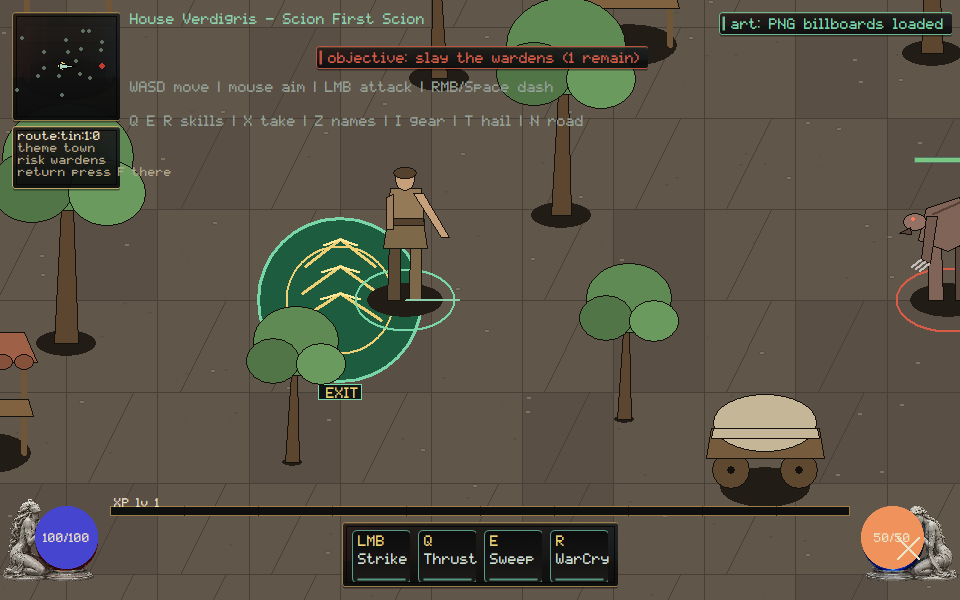
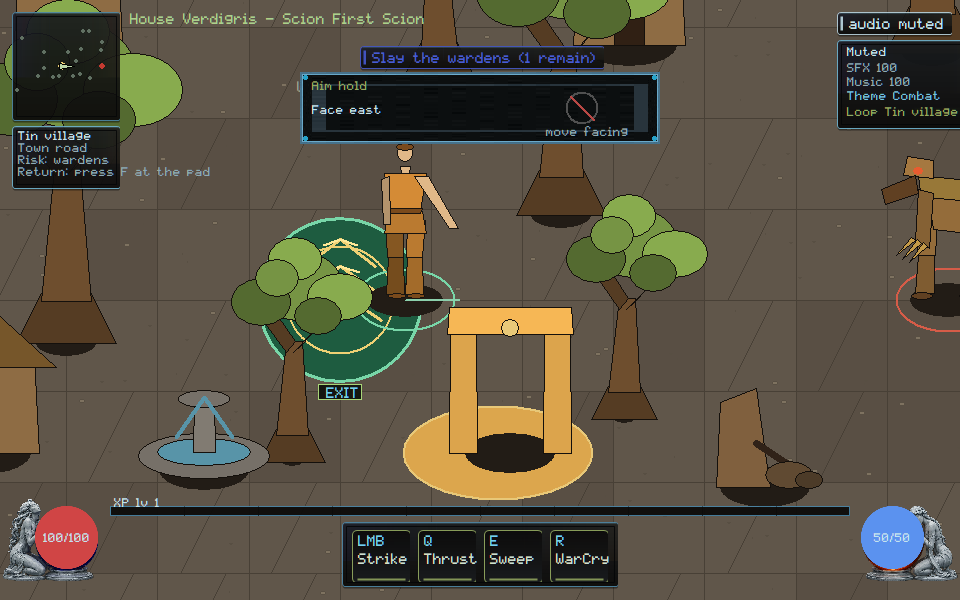
native: name held aim, present-path latency, and open carry so photon and extract-ok cannot certify

diff --git a/native/client/main.cpp b/native/client/main.cpp
@@ -482,6 +482,9 @@ struct ClientState {
   bool combat_beats_review_strip = false;
   bool pane_stack_review_strip = false;
   bool eight_way_review_strip = false;
+  bool aim_hold_review_strip = false;
+  bool input_latency_review_strip = false;
+  bool death_disconnect_review_strip = false;
   bool debug_overlay = false;
   // Last full paint_scene duration in milliseconds (F3 overlay); the honest
   // per-frame budget readout that catches presentation-cost regressions.
@@ -6626,6 +6629,123 @@ void paint_eight_way_review_strip(ClientState& state, HDC dc, const RECT& bounds
   SelectObject(dc, old_font);
 }
 
+void paint_aim_hold_review_strip(ClientState& state, HDC dc, const RECT& bounds,
+                                 render::List& rl) {
+  if (!state.aim_hold_review_strip) return;
+  const int s = hud_scale(static_cast<int>(bounds.bottom));
+  const int pane_w = 360 * s;
+  const int pane_h = 72 * s;
+  const int left = (static_cast<int>(bounds.right) - pane_w) / 2;
+  const int top = 72 * s;
+  RECT pane{left, top, left + pane_w, top + pane_h};
+  if (!draw_framekit_nine(state.billboards, dc, state.billboards.fk_panel, pane))
+    skin::panel(dc, pane, skin::kVerdigris, 235, 8.0f);
+  rl.push_back({render::Op::Hud, static_cast<double>(left),
+                static_cast<double>(top), 0.0, 1, "aim-strip"});
+  SetBkMode(dc, TRANSPARENT);
+  HGDIOBJ old_font = SelectObject(dc, skin::font_small());
+  SetTextColor(dc, skin::kVerdigris);
+  const char* title = verdigris::client::move::owner_aim_hold_label();
+  TextOutA(dc, left + 12 * s, top + 8 * s, title, static_cast<int>(strlen(title)));
+  SetTextColor(dc, skin::kInk);
+  const char* face = verdigris::client::move::owner_face_east_label();
+  TextOutA(dc, left + 12 * s, top + 32 * s, face, static_cast<int>(strlen(face)));
+  const int rx = left + pane_w - 78 * s;
+  const int ry = top + 36 * s;
+  ring_ellipse(dc, rx, ry, 16 * s, 16 * s, RGB(80, 80, 80), 2);
+  draw_line(dc, rx - 12 * s, ry - 12 * s, rx + 12 * s, ry + 12 * s, RGB(185, 72, 69),
+            2);
+  SetTextColor(dc, skin::kInkDim);
+  const char* rejected = "move facing";
+  TextOutA(dc, rx - 36 * s, top + pane_h - 18 * s, rejected,
+           static_cast<int>(strlen(rejected)));
+  rl.push_back({render::Op::Hud, static_cast<double>(left + 12 * s),
+                static_cast<double>(top + 8 * s), 0.0, 1, "aim:hold"});
+  rl.push_back({render::Op::Hud, static_cast<double>(left + 12 * s),
+                static_cast<double>(top + 32 * s), 0.0, 1, "aim:face-east"});
+  rl.push_back({render::Op::Hud, static_cast<double>(rx), static_cast<double>(ry),
+                0.0, 0, "aim-strip:move-facing-rejected"});
+  SelectObject(dc, old_font);
+}
+
+void paint_input_latency_review_strip(ClientState& state, HDC dc, const RECT& bounds,
+                                      render::List& rl) {
+  if (!state.input_latency_review_strip) return;
+  const int s = hud_scale(static_cast<int>(bounds.bottom));
+  const int pane_w = 360 * s;
+  const int pane_h = 72 * s;
+  const int left = (static_cast<int>(bounds.right) - pane_w) / 2;
+  const int top = 72 * s;
+  RECT pane{left, top, left + pane_w, top + pane_h};
+  if (!draw_framekit_nine(state.billboards, dc, state.billboards.fk_panel, pane))
+    skin::panel(dc, pane, skin::kVerdigris, 235, 8.0f);
+  rl.push_back({render::Op::Hud, static_cast<double>(left),
+                static_cast<double>(top), 0.0, 1, "latency-strip"});
+  SetBkMode(dc, TRANSPARENT);
+  HGDIOBJ old_font = SelectObject(dc, skin::font_small());
+  SetTextColor(dc, skin::kVerdigris);
+  const char* title = verdigris::client::input::owner_present_label();
+  TextOutA(dc, left + 12 * s, top + 8 * s, title, static_cast<int>(strlen(title)));
+  SetTextColor(dc, skin::kInk);
+  const char* method = "Input paint";
+  TextOutA(dc, left + 12 * s, top + 32 * s, method, static_cast<int>(strlen(method)));
+  const int rx = left + pane_w - 78 * s;
+  const int ry = top + 36 * s;
+  ring_ellipse(dc, rx, ry, 16 * s, 16 * s, RGB(80, 80, 80), 2);
+  draw_line(dc, rx - 12 * s, ry - 12 * s, rx + 12 * s, ry + 12 * s, RGB(185, 72, 69),
+            2);
+  SetTextColor(dc, skin::kInkDim);
+  const char* rejected = "photon";
+  TextOutA(dc, rx - 18 * s, top + pane_h - 18 * s, rejected,
+           static_cast<int>(strlen(rejected)));
+  rl.push_back({render::Op::Hud, static_cast<double>(left + 12 * s),
+                static_cast<double>(top + 8 * s), 0.0, 1, "latency:present"});
+  rl.push_back({render::Op::Hud, static_cast<double>(left + 12 * s),
+                static_cast<double>(top + 32 * s), 0.0, 1, "latency:input-paint"});
+  rl.push_back({render::Op::Hud, static_cast<double>(rx), static_cast<double>(ry),
+                0.0, 0, "latency-strip:photon-rejected"});
+  SelectObject(dc, old_font);
+}
+
+void paint_death_disconnect_review_strip(ClientState& state, HDC dc, const RECT& bounds,
+                                         render::List& rl) {
+  if (!state.death_disconnect_review_strip) return;
+  const int s = hud_scale(static_cast<int>(bounds.bottom));
+  const int pane_w = 360 * s;
+  const int pane_h = 72 * s;
+  const int left = (static_cast<int>(bounds.right) - pane_w) / 2;
+  const int top = 72 * s;
+  RECT pane{left, top, left + pane_w, top + pane_h};
+  if (!draw_framekit_nine(state.billboards, dc, state.billboards.fk_panel, pane))
+    skin::panel(dc, pane, skin::kVerdigris, 235, 8.0f);
+  rl.push_back({render::Op::Hud, static_cast<double>(left),
+                static_cast<double>(top), 0.0, 1, "extract-strip"});
+  SetBkMode(dc, TRANSPARENT);
+  HGDIOBJ old_font = SelectObject(dc, skin::font_small());
+  SetTextColor(dc, skin::kVerdigris);
+  const char* title = verdigris::client::gov::owner_carry_label();
+  TextOutA(dc, left + 12 * s, top + 8 * s, title, static_cast<int>(strlen(title)));
+  SetTextColor(dc, skin::kInk);
+  const char* line = "No extract";
+  TextOutA(dc, left + 12 * s, top + 32 * s, line, static_cast<int>(strlen(line)));
+  const int rx = left + pane_w - 78 * s;
+  const int ry = top + 36 * s;
+  ring_ellipse(dc, rx, ry, 16 * s, 16 * s, RGB(80, 80, 80), 2);
+  draw_line(dc, rx - 12 * s, ry - 12 * s, rx + 12 * s, ry + 12 * s, RGB(185, 72, 69),
+            2);
+  SetTextColor(dc, skin::kInkDim);
+  const char* rejected = "extract ok";
+  TextOutA(dc, rx - 32 * s, top + pane_h - 18 * s, rejected,
+           static_cast<int>(strlen(rejected)));
+  rl.push_back({render::Op::Hud, static_cast<double>(left + 12 * s),
+                static_cast<double>(top + 8 * s), 0.0, 1, "extract:carry-open"});
+  rl.push_back({render::Op::Hud, static_cast<double>(left + 12 * s),
+                static_cast<double>(top + 32 * s), 0.0, 1, "extract:no-ack"});
+  rl.push_back({render::Op::Hud, static_cast<double>(rx), static_cast<double>(ry),
+                0.0, 0, "extract-strip:ok-rejected"});
+  SelectObject(dc, old_font);
+}
+
 const char* attack_stage_label(vector_art::Pose::AttackStage stage) {
   switch (stage) {
     case vector_art::Pose::AttackStage::Windup:
@@ -7656,6 +7776,9 @@ void paint_scene(ClientState& state, HDC dc, const RECT& bounds) {
   paint_combat_beats_review_strip(state, dc, bounds, rl);
   paint_pane_stack_review_strip(state, dc, bounds, rl);
   paint_eight_way_review_strip(state, dc, bounds, rl);
+  paint_aim_hold_review_strip(state, dc, bounds, rl);
+  paint_input_latency_review_strip(state, dc, bounds, rl);
+  paint_death_disconnect_review_strip(state, dc, bounds, rl);
 
   state.render_list = std::move(rl);
   if (state.debug_overlay) {
@@ -13228,11 +13351,16 @@ int scenario_input_latency() {
     return scenario_failures;
   }
   const std::string png = dir + "\\input-latency-960x600.png";
+  state.input_latency_review_strip = true;
   scenario_check(reference_present(state, 960, 600, png),
                  "input-latency: present-path capture written");
+  scenario_check(has_hud("latency:present") && has_hud("latency:input-paint"),
+                 "input-latency: live HUD names To present and Input paint");
+  scenario_check(has_hud("latency-strip:photon-rejected"),
+                 "input-latency: live HUD rejects photon as this method");
   const std::string report = dir + "\\input-latency-report.txt";
   FILE* out = nullptr;
-  fopen_s(&out, report.c_str(), "w");
+  fopen_s(&out, report.c_str(), "wb");
   scenario_check(out != nullptr, "input-latency: report file opened");
   if (out) {
     std::fprintf(out,
@@ -13353,8 +13481,22 @@ int scenario_aim_hold() {
     return scenario_failures;
   }
   const std::string png = dir + "\\aim-hold-960x600.png";
+  state.aim_hold_review_strip = true;
   scenario_check(reference_present(state, 960, 600, png),
                  "aim-hold: capture written");
+  bool hold_owner = false;
+  bool face_owner = false;
+  bool move_rejected = false;
+  for (const auto& item : state.render_list) {
+    if (item.op != render::Op::Hud) continue;
+    if (item.label == "aim:hold") hold_owner = true;
+    if (item.label == "aim:face-east") face_owner = true;
+    if (item.label == "aim-strip:move-facing-rejected") move_rejected = true;
+  }
+  scenario_check(hold_owner && face_owner,
+                 "aim-hold: live HUD names Aim hold and Face east");
+  scenario_check(move_rejected,
+                 "aim-hold: live HUD rejects move facing as held aim");
   return scenario_failures;
 }
 
@@ -13532,8 +13674,22 @@ int scenario_death_disconnect() {
     return scenario_failures;
   }
   const std::string png = dir + "\\death-disconnect-960x600.png";
+  state.death_disconnect_review_strip = true;
   scenario_check(reference_present(state, 960, 600, png),
                  "death-disconnect: capture written");
+  bool carry_owner = false;
+  bool no_ack = false;
+  bool ok_rejected = false;
+  for (const auto& item : state.render_list) {
+    if (item.op != render::Op::Hud) continue;
+    if (item.label == "extract:carry-open") carry_owner = true;
+    if (item.label == "extract:no-ack") no_ack = true;
+    if (item.label == "extract-strip:ok-rejected") ok_rejected = true;
+  }
+  scenario_check(carry_owner && no_ack,
+                 "death-disconnect: live HUD names Carry open and No extract");
+  scenario_check(ok_rejected,
+                 "death-disconnect: live HUD rejects extract ok on disconnect");
   return scenario_failures;
 }
 

diff --git a/native/client/input/measure-native-input-response.hpp b/native/client/input/measure-native-input-response.hpp
@@ -87,6 +87,7 @@ inline bool command_time_is_not_photon(const char* label) {
 
 inline const char* present_kind_hud() { return "input-latency:present"; }
 inline const char* photon_kind_hud() { return "input-latency:photon"; }
+inline const char* owner_present_label() { return "To present"; }
 
 inline std::string p50_hud(const LatencyLog& log) {
   char buf[48];

diff --git a/native/client/input/make-aim-independent-of-motion.hpp b/native/client/input/make-aim-independent-of-motion.hpp
@@ -22,4 +22,7 @@ inline bool move_clobbered_aim(const AimHold& hold, int face_dx, int face_dy) {
   return hold.dx != face_dx || hold.dy != face_dy;
 }
 
+inline const char* owner_aim_hold_label() { return "Aim hold"; }
+inline const char* owner_face_east_label() { return "Face east"; }
+
 }  // namespace verdigris::client::move

diff --git a/native/client/rule-on-death-and-disconnect.hpp b/native/client/rule-on-death-and-disconnect.hpp
@@ -45,4 +45,6 @@ inline bool paints_extract_ok(EndEvent event, Carry carry) {
   return carry == Carry::ExtractCommitted;
 }
 
+inline const char* owner_carry_label() { return "Carry open"; }
+
 }  // namespace verdigris::client::gov

diff --git a/docs/execution/CROSSWALK.md b/docs/execution/CROSSWALK.md
@@ -25,7 +25,7 @@ Cursor evidence notes.
 | VG-GOV-003 | extend | TASK-0119 READY, TASK-0152 INTEGRATED, TASK-0206 AUTO_RELEASE; `docs/execution/decisions/freeze-the-parity-scorecard.md` — feature counts cannot pass |
 | VG-GOV-004 | extend | this file + `decisions/crosswalk-existing-task-packets.md`; TASK-0108 extend never re-spec; TASK-0095/0097 superseded |
 | VG-GOV-005 | verify | TASK-0114 INTEGRATED; `docs/execution/decisions/choose-the-renderer-trial-boundary.md` — gpu-sample is not an engine port |
-| VG-GOV-006 | extend | TASK-0018, 0056, 0148; `death-disconnect` — disconnect cannot ack uncommitted extract |
+| VG-GOV-006 | extend | TASK-0018, 0056, 0148; `death-disconnect` — owner Carry open / No extract; disconnect cannot ack uncommitted extract |
 | VG-GOV-007 | extend | Owner Demo content lots |
 | VG-GOV-008 | new | pack `tools/roadmap.py` validate + unittest; evidence `docs/execution/evidence/VG-GOV-008.json` |
 
@@ -63,9 +63,9 @@ Cursor evidence notes.
 |---|---|---|
 | VG-MOVE-005 | extend | TASK-0165 `input_focus.hpp` wired in `fixed_game_tick` (`pane-focus`); not a core movement rewrite |
 | VG-MOVE-006 | new | isolated `bindings.v1` (`remap-binds`); owner Documents cannot be the test path. Full VG-SHIP-001 packager stays Kimi |
-| VG-MOVE-008 | new | `input-latency` p50/p95 on the paint path; `Simulation::dispatch` time is not photon. MOVE-007 buffering stays Kimi |
+| VG-MOVE-008 | new | `input-latency` p50/p95 on the paint path; owner To present / Input paint; photon rejected. MOVE-007 buffering stays Kimi |
 | VG-MOVE-001 | new | eight-way `player:move` names (`eight-way`); owner Eight-way / Up-left; vertical-only collapse fails |
-| VG-MOVE-002 | new | held aim survives locomotion (`aim-hold`); core move still clobbers without the adapter |
+| VG-MOVE-002 | new | held aim survives locomotion (`aim-hold`); owner Aim hold / Face east; core move still clobbers without the adapter |
 | VG-MOVE-003–004, 007 | extend / new | Kimi lease for sim travel distance / dash sweep / action buffering |
 
 ## ACT (Cursor presentation bridge only)
@@ -226,16 +226,18 @@ VG-MOVE-006: versioned bindings persist under an isolated test profile.
 Duplicate codes and unknown devices fail on the HUD; owner Documents
 cannot be the write target. Scenario `remap-binds`.
 Evidence `docs/execution/evidence/VG-MOVE-006.json`.
-VG-MOVE-008: input QPC to `paint_scene` present QPC. p50/p95 on this
+VG-MOVE-008: input QPC to `paint_scene` present QPC. Owner strip paints
+To present / Input paint. Photon cannot certify. p50/p95 on this
 machine. Command dispatch time is not `input-latency:photon`. Scenario
-`input-latency`. Protocol
-`docs/execution/decisions/measure-native-input-response.md`.
+`input-latency`. Evidence `docs/execution/evidence/VG-MOVE-008.json`.
 VG-MOVE-001: eight-way encoder keeps both axes. Owner strip paints
 Eight-way / Up-left. A vertical-only name cannot pass a diagonal.
 Scenario `eight-way`. Evidence `docs/execution/evidence/VG-MOVE-001.json`.
 VG-MOVE-002: `player:move` does not replace held aim; local tick
-re-applies aim after move. Scenario `aim-hold`. Core `resolve_move` still
+re-applies aim after move. Owner strip paints Aim hold / Face east.
+Move facing cannot certify. Scenario `aim-hold`. Core `resolve_move` still
 turns facing — that is the defect the adapter covers.
+Evidence `docs/execution/evidence/VG-MOVE-002.json`.
 VG-ACT-007: AttackStarted/DamageApplied/ActorDied drive
 `attack-beat:*`. Owner strip paints Attack beat / Anticipate. A
 fabricated swing cannot mint the beat. Scenario `attack-beat`. Core melee
@@ -272,7 +274,9 @@ A feature or VG-ID count cannot pass. Each dimension names a journey.
 VG-UI-007: `vital-orbs` — life left/red, mana right/blue. Mute is a HUD
 chip. An X on the mana globe cannot count as a non-color cue.
 VG-GOV-006: disconnect/crash/quit cannot ack uncommitted extraction.
+Owner strip paints Carry open / No extract. Extract ok cannot certify.
 Scenario `death-disconnect`. Core D-106 stays Kimi/TASK-0018.
+Evidence `docs/execution/evidence/VG-GOV-006.json`.
 VG-UI-005: `route-map` — overlay zoom/opacity cannot move the player or
 mint an off-snapshot warden blip. The owner card titles Tin village, not
 `route:tin:1:0`. Owner Demo journeys not reimplemented.

diff --git a/docs/rebuild/HANDOFF.md b/docs/rebuild/HANDOFF.md
@@ -1,5 +1,17 @@
 # Native reconstitution handoff
 
+## 2026-09-06 — aim hold, present-path latency, uncommitted extract (Cursor)
+
+- VG-MOVE-002: owner Aim hold strip paints Face east. Move facing cannot
+  certify. West walk still displaces; east aim stays. Core `resolve_move`
+  stays Kimi.
+- VG-MOVE-008: owner To present strip paints Input paint. Photon cannot
+  certify. p50/p95 stay input-to-present, not dispatch time.
+- VG-GOV-006: owner Carry open strip paints No extract. Extract ok cannot
+  certify an uncommitted disconnect. Core D-106 stays Kimi.
+- Scenarios `aim-hold` / `input-latency` / `death-disconnect` PASS.
+  Captures viewed. Not Owner Demo. Not TASK-0108.
+
 ## 2026-09-06 — pane stack and eight-way (Cursor)
 
 - VG-UI-001: owner Stack 2 strip paints Escape closes. Helper depth

diff --git a/orchestration/CURSOR_KIMI_LANES.md b/orchestration/CURSOR_KIMI_LANES.md
@@ -644,3 +644,14 @@ Please move off that branch before taking a new native path.
 - **Stay off** `native/client/main.cpp` and `docs/execution/**`. SEC/CORE
   remain yours. GOV-002 still unstamped.
 
+## Cursor reply (2026-09-06, aim hold / present-path / uncommitted extract)
+
+- **Lease:** `main.cpp` still **ACTIVE**. `remote_session.cpp` stays
+  **RELEASED**. Do not re-spec TASK-0108 core/wire (`3b929637`).
+- **Landed this push:** VG-MOVE-002 — Aim hold / Face east; move facing
+  rejected. VG-MOVE-008 — To present / Input paint; photon rejected.
+  VG-GOV-006 — Carry open / No extract; extract ok rejected. Captures
+  viewed. Core MOVE/D-106 stay yours. Not Owner Demo.
+- **Stay off** `native/client/main.cpp` and `docs/execution/**`. SEC/CORE
+  remain yours. GOV-002 still unstamped.
+
